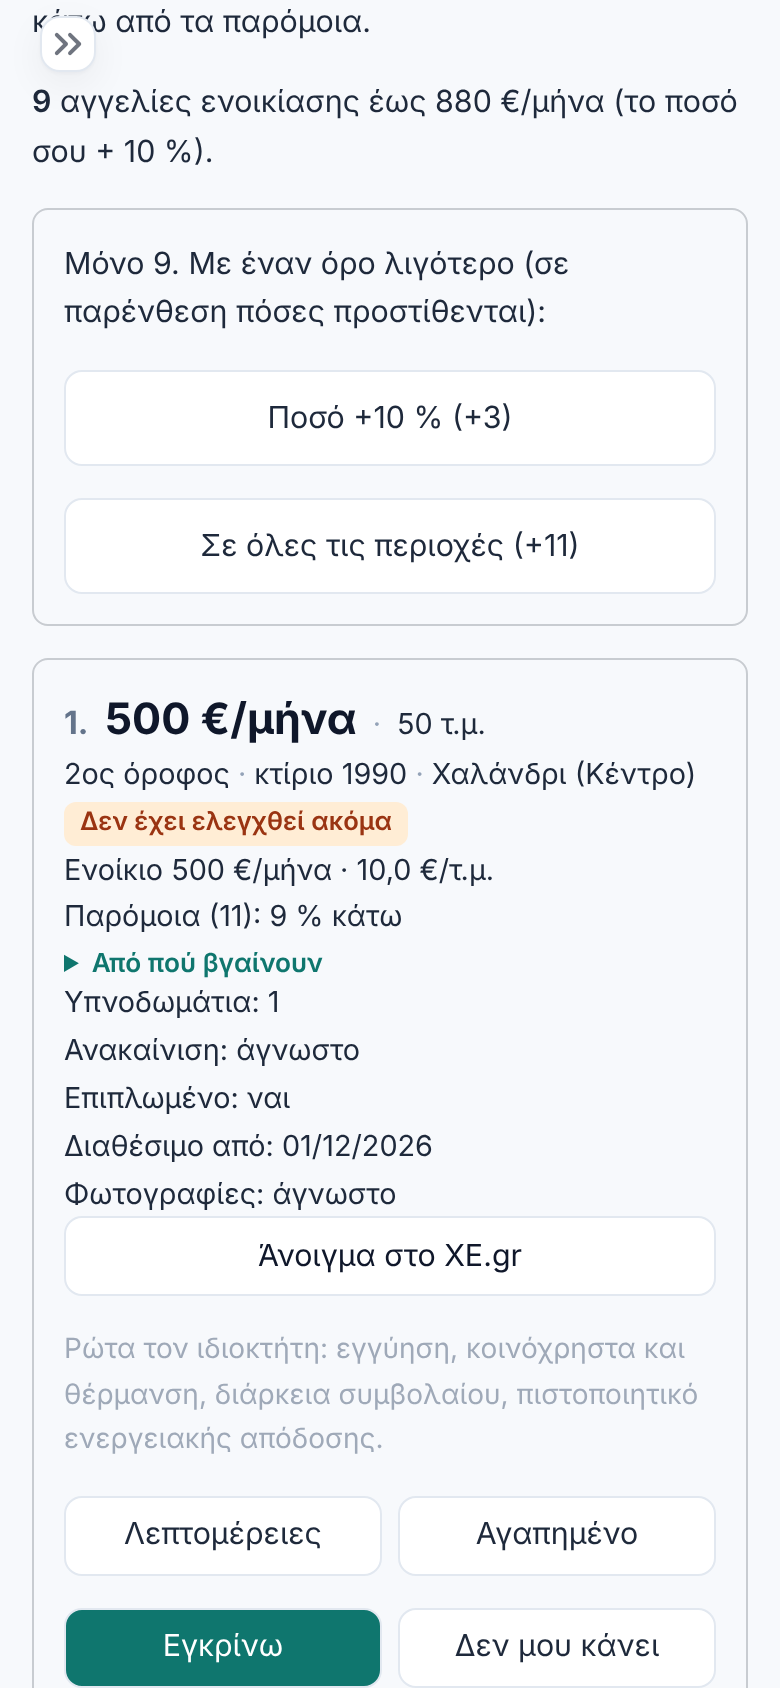
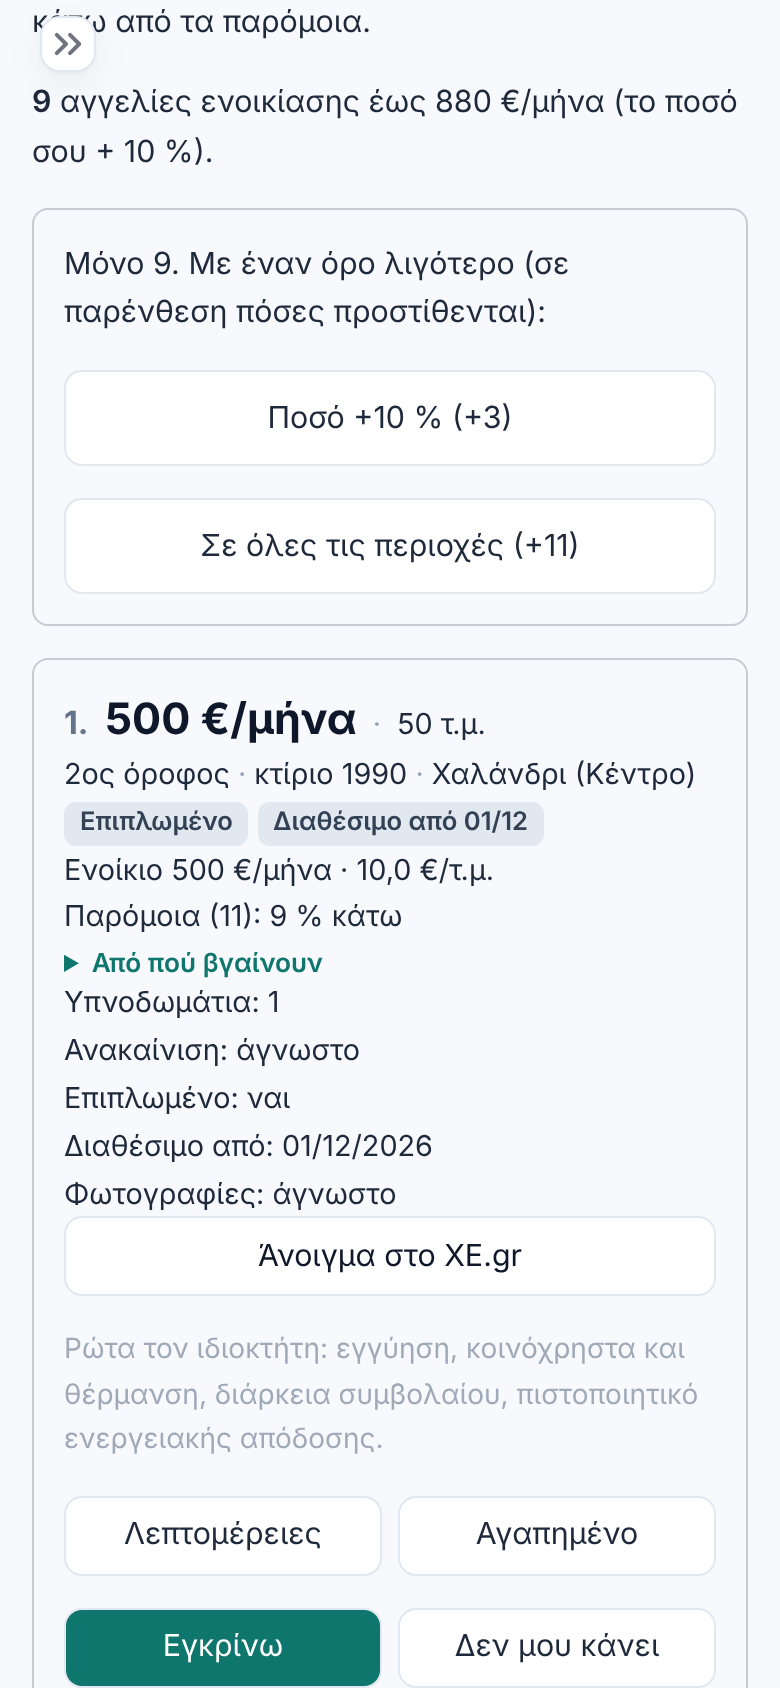
Rent card line 3: furnished / available-from chips instead of the sale page-check badge
No rental page is read, so the «Δεν έχει ελεγχθεί ακόμα» chip and its basis sentence are
dropped for rentals; line 3 shows «Επιπλωμένο» / «Χωρίς έπιπλα» and «Διαθέσιμο από ΗΗ/ΜΜ»
as neutral chips, and the row is left out when the ad says neither.

Claude-Session: https://claude.ai/code/session_01RR7mnbZyVaZHiBauhGatrm

Changed region(s): [[0.0615, 0.4621, 0.6769, 0.5237]]

diff --git a/src/scout/ui/buyer.py b/src/scout/ui/buyer.py
@@ -11,7 +11,7 @@ from __future__ import annotations
 import html
 import re
 import statistics
-from datetime import date
+from datetime import date, datetime
 
 import streamlit as st
 
@@ -214,6 +214,7 @@ CARD_CSS = """<style>
 .hg-st-bad { background: #FEE2E2; color: #991B1B; }
 .hg-st-ok { background: #DCFCE7; color: #166534; }
 .hg-st-unk { background: #FFEDD5; color: #9A3412; }
+.hg-st-neu { background: #E2E8F0; color: #334155; }
 .hg-nw { white-space: nowrap; }
 .hg-hidden { font-size: .8rem; line-height: 1.35; }
 .hg-st-photo { background: #FEF3C7; color: #92400E; }
@@ -365,6 +366,15 @@ def _is_rent(d: dict) -> bool:
     return d.get("listing_type") == "rent"
 
 
+def rent_chips(d: dict) -> list[str]:
+    """A rental's line 3: «Επιπλωμένο» / «Χωρίς έπιπλα» and «Διαθέσιμο από ΗΗ/ΜΜ», when the
+    ad says so."""
+    out = {True: ["Επιπλωμένο"], False: ["Χωρίς έπιπλα"]}.get(d.get("furnished"), [])
+    if isinstance(when := d.get("available_from"), (date, datetime)):
+        out.append(f"Διαθέσιμο από {when:%d/%m}")
+    return out
+
+
 def short_status(d: dict) -> tuple[str, str]:
     """(tone, glossary term) for the compact card's badge; the full sentence is one tap away."""
     if _unfinished(d):
@@ -411,11 +421,10 @@ def _extras(d: dict, adv: dict) -> list[str]:
 
 
 def _basis_lines(d: dict, adv: dict) -> list[str]:
-    lines = [status_basis(d)]
-    if _is_rent(d):
-        lines.append("Ενοίκιο: αυτό που ζητά η αγγελία, όχι συμβόλαιο.")
+    if _is_rent(d):  # no rental page is read, so no page-check sentence
+        lines = ["Ενοίκιο: αυτό που ζητά η αγγελία, όχι συμβόλαιο."]
     else:
-        lines.append(rent_basis(d))
+        lines = [status_basis(d), rent_basis(d)]
         if (gy := gross_yield(d)) is not None:
             lines.append(
                 f"Μικτή απόδοση = 12 × ενοίκιο ÷ τιμή = 12 × {eur(_r(_rent(d), 10))} ÷ "
@@ -457,24 +466,28 @@ def card_html(
         l2.append(e(d["neighborhood"]))
     if stn := picks.station_text(d):
         l2.append(f"Σταθμός {e(stn)}")
-    tone, text = short_status(d) if compact else status(d)
-    l3 = f'<span class="hg-st hg-st-{tone}">{text}</span>'
+    if rent_row:  # no rental page is read: line 3 = what a renter needs, or no line at all
+        tone, text = "neu", ""
+        l3 = " ".join(f'<span class="hg-st hg-st-neu">{e(x)}</span>' for x in rent_chips(d))
+    else:
+        tone, text = short_status(d) if compact else status(d)
+        l3 = f'<span class="hg-st hg-st-{tone}">{text}</span>'
     if d.get("few_photos"):
-        l3 += f' <span class="hg-st hg-st-photo">{picks.FEW_PHOTOS}</span>'
+        l3 = (l3 + f' <span class="hg-st hg-st-photo">{picks.FEW_PHOTOS}</span>').strip()
     extras = _extras(d, adv)
     mark = ' data-compact="1"' if compact else ""
     out = (
         f'<div class="hg-card"{mark} data-lid="{d.get("id")}">'
         f'<div class="hg-l1">{_join(l1)}</div>'
         f'<div class="hg-l2">{_join(l2)}</div>'
-        f'<div class="hg-l3">{l3}</div>'
-        f'<div class="hg-l4">{_rent_line(d)}</div>'
+        + (f'<div class="hg-l3">{l3}</div>' if l3 else "")
+        + f'<div class="hg-l4">{_rent_line(d)}</div>'
         f'<div class="hg-l5">{e(comps_text(adv))}</div>'
     )
     hidden: list[str] = []
     if compact:
-        full = status(d)[1]
-        hidden = [*(more or []), *extras] + ([full] if full != text else [])
+        full = "" if rent_row else status(d)[1]
+        hidden = [*(more or []), *extras] + ([full] if full and full != text else [])
     elif extras:
         out += f'<div class="hg-more">{_join([e(x) for x in extras])}</div>'
     if basis or hidden:

diff --git a/tests/test_card_render.py b/tests/test_card_render.py
@@ -8,6 +8,7 @@ showed as raw <div> code). The collapse in listing_grid must prevent that.
 from __future__ import annotations
 
 import re
+from datetime import date
 
 from scout.ui.components import _card_html
 
@@ -176,7 +177,15 @@ def test_compact_card_status_and_rentals():
     rent = card_html(
         {**BUYER, "listing_type": "rent", "price": 800, "price_per_m2": None}, {}, compact=True
     )
-    l1, _l2, _l3, l4, _l5 = _lines(rent)
+    l1, _l2, l4, _l5 = _lines(rent)  # no page-check chip and, with nothing known, no line 3
     assert l1 == "800 €/μήνα · 78 τ.μ."
     assert l4 == "Ενοίκιο 800 €/μήνα · 10,3 €/τ.μ."
-    assert "Μικτή απόδοση" not in rent
+    assert "Μικτή απόδοση" not in rent and "ελεγχθεί" not in rent and "hg-l3" not in rent
+    furnished = card_html(
+        {**BUYER, "listing_type": "rent", "price": 800, "furnished": True,
+         "available_from": date(2026, 12, 1)}, {}, compact=True,
+    )  # fmt: skip
+    assert _lines(furnished)[2] == "Επιπλωμένο Διαθέσιμο από 01/12"
+    assert 'hg-st-neu">Επιπλωμένο<' in furnished and "ελεγχθεί" not in furnished
+    bare = card_html({**BUYER, "listing_type": "rent", "furnished": False}, {}, compact=True)
+    assert _lines(bare)[2] == "Χωρίς έπιπλα"

diff --git a/src/scout/ui/rent_guide.py b/src/scout/ui/rent_guide.py
@@ -586,16 +586,13 @@ METHOD = f"""
 
 
 def card_more(p: picks_rent.RentPick) -> list[str]:
-    """What sits behind «Από πού βγαίνουν» on the rent card: the four checks, the risks,
-    furnished / available from, the listing's own words and the basis of the comparison."""
+    """What sits behind «Από πού βγαίνουν» on the rent card: the four checks, the risks, the
+    listing's own words and the basis of the comparison (furnished / available from are the
+    card's line 3, ``buyer.rent_chips``)."""
     d = p.listing
     more = [d["title"]] if d.get("title") else []
     more += [f"{k}: {v}" for k, v in p.checks]
     more += [f"Έλεγξε: {r}" for r in p.risks]
-    if d.get("furnished"):
-        more.append("Επιπλωμένο")
-    if avail := _day(d.get("available_from")):
-        more.append(f"Διαθέσιμο από {avail}")
     if text := picks.excerpt(d.get("description")):
         more.append(f"Τι λέει η αγγελία: «{text}»")
     if p.comps_ppm:

diff --git a/tests/test_rent_guide.py b/tests/test_rent_guide.py
@@ -145,6 +145,8 @@ def test_rent_flow_end_to_end(rent_env):
     assert total > 10 and "Πρόταση: **" in text
     assert "Παρόμοια (" in text and "Ιδιώτης ή μεσιτικό" in text
     assert "/μήνα" in text and "Από πού βγαίνουν" in text
+    assert "Δεν έχει ελεγχθεί ακόμα" not in text  # no rental page is read: no page-check chip
+    assert 'hg-st-neu">Επιπλωμένο<' in text and 'hg-st-neu">Διαθέσιμο από 01/12<' in text
     assert "Ενεργειακή κλάση" in text and "Φρεσκάδα" in text and "Τιμή έναντι παρόμοιων" in text
     assert "απόδοση" not in text.lower()  # no yield talk for renters
     first = _cards(at)
